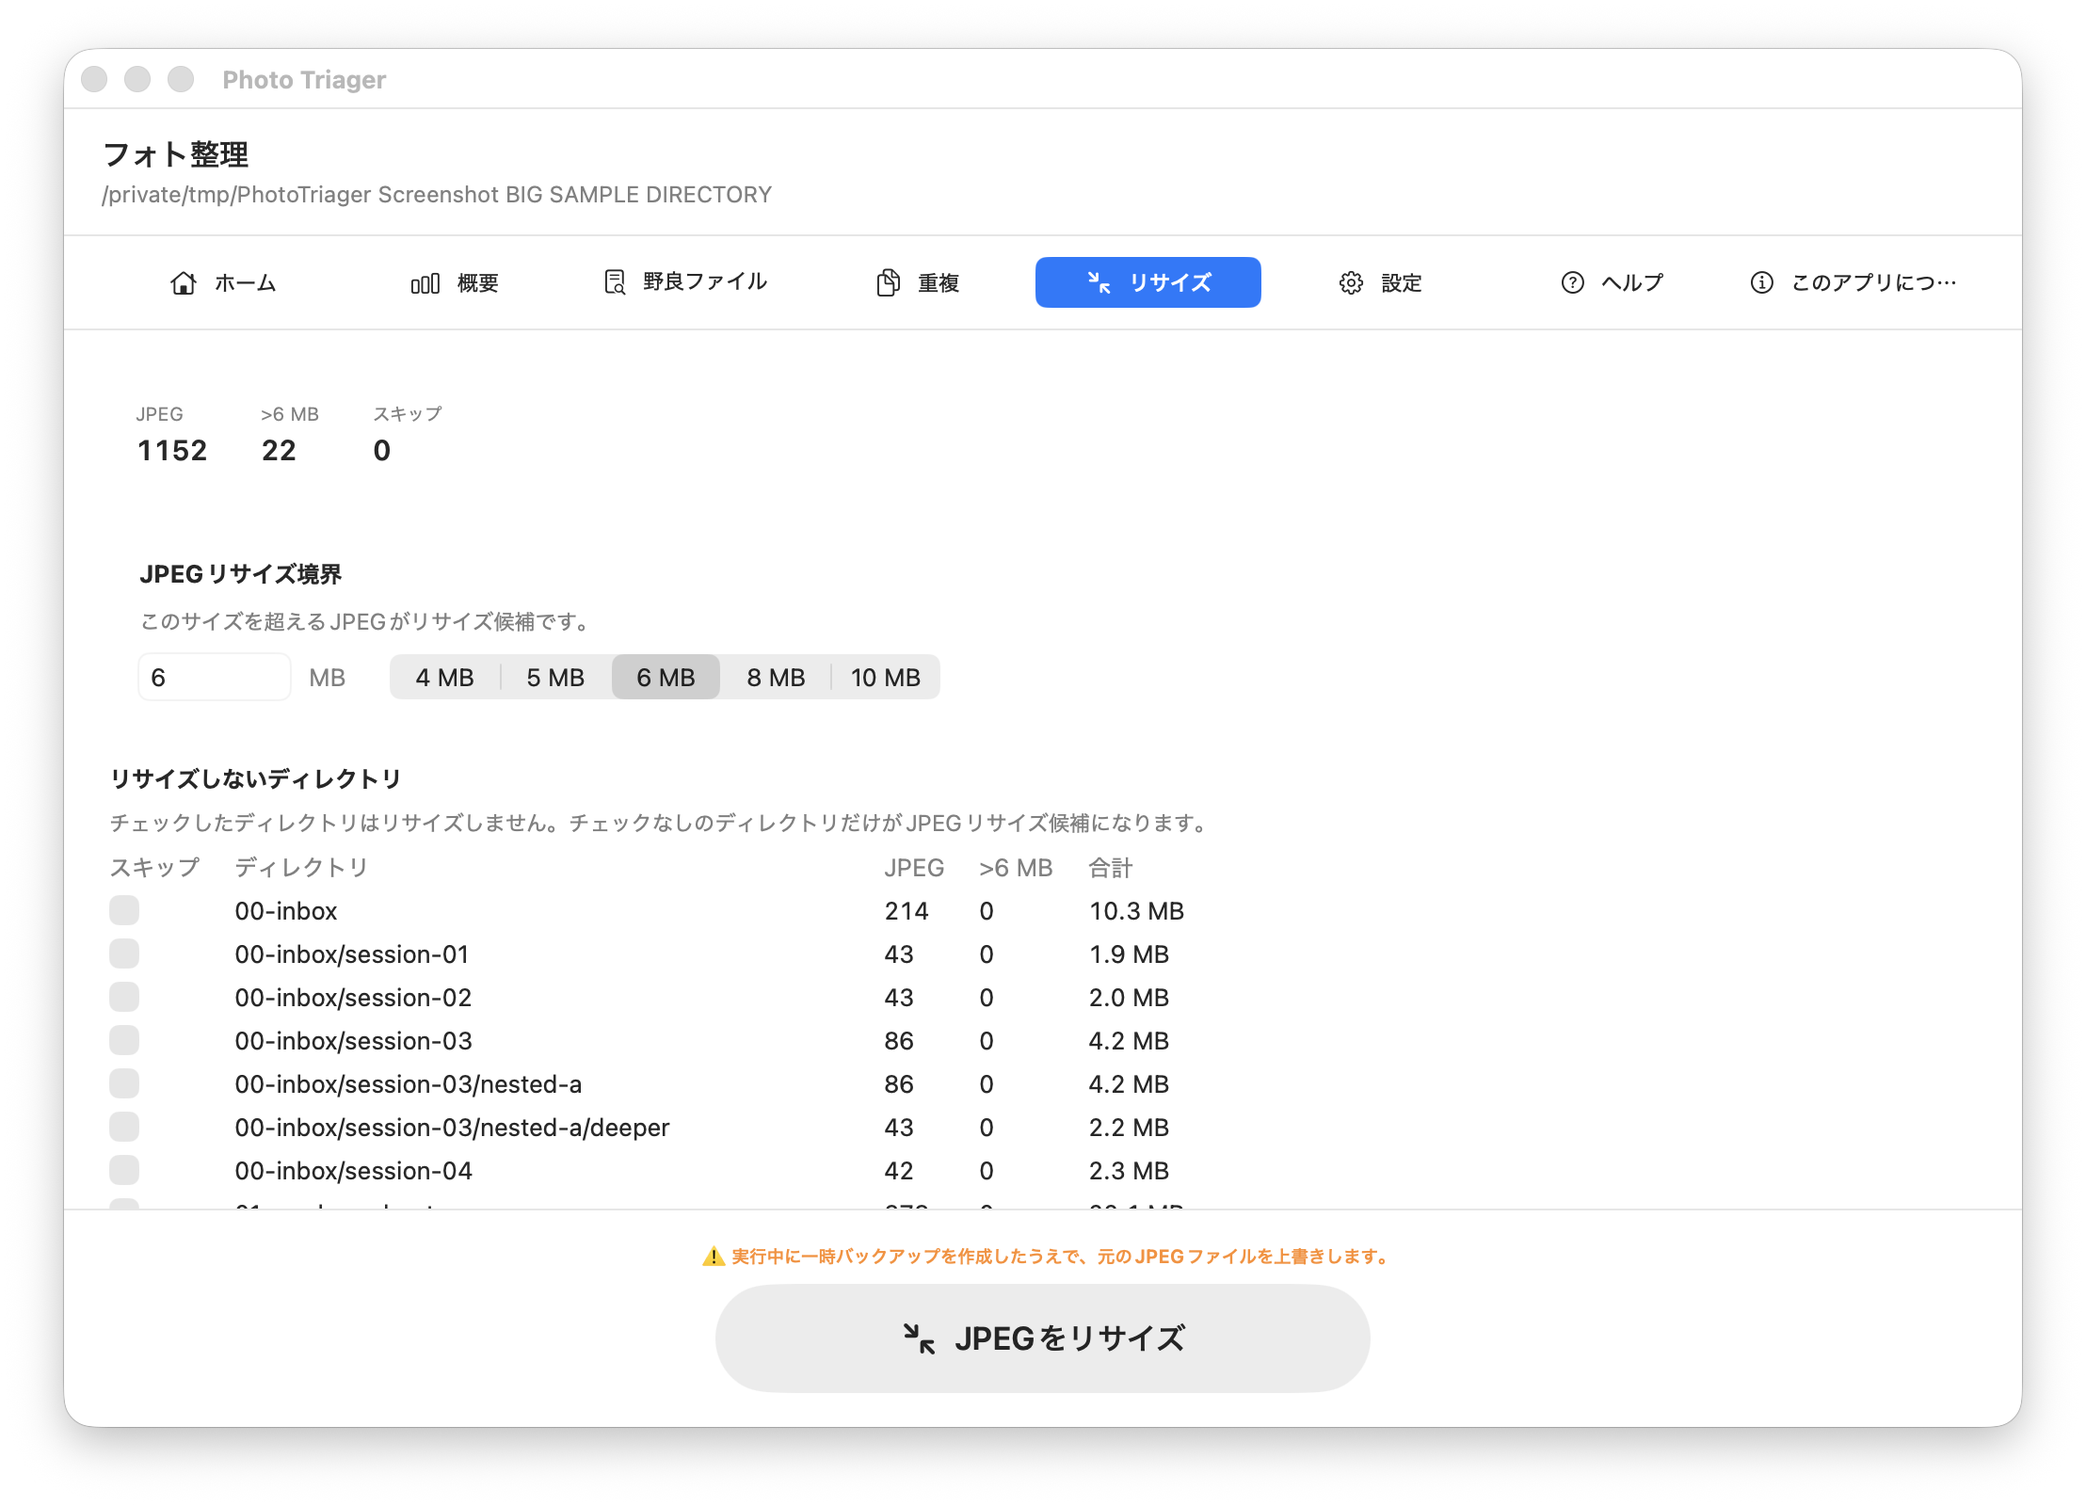
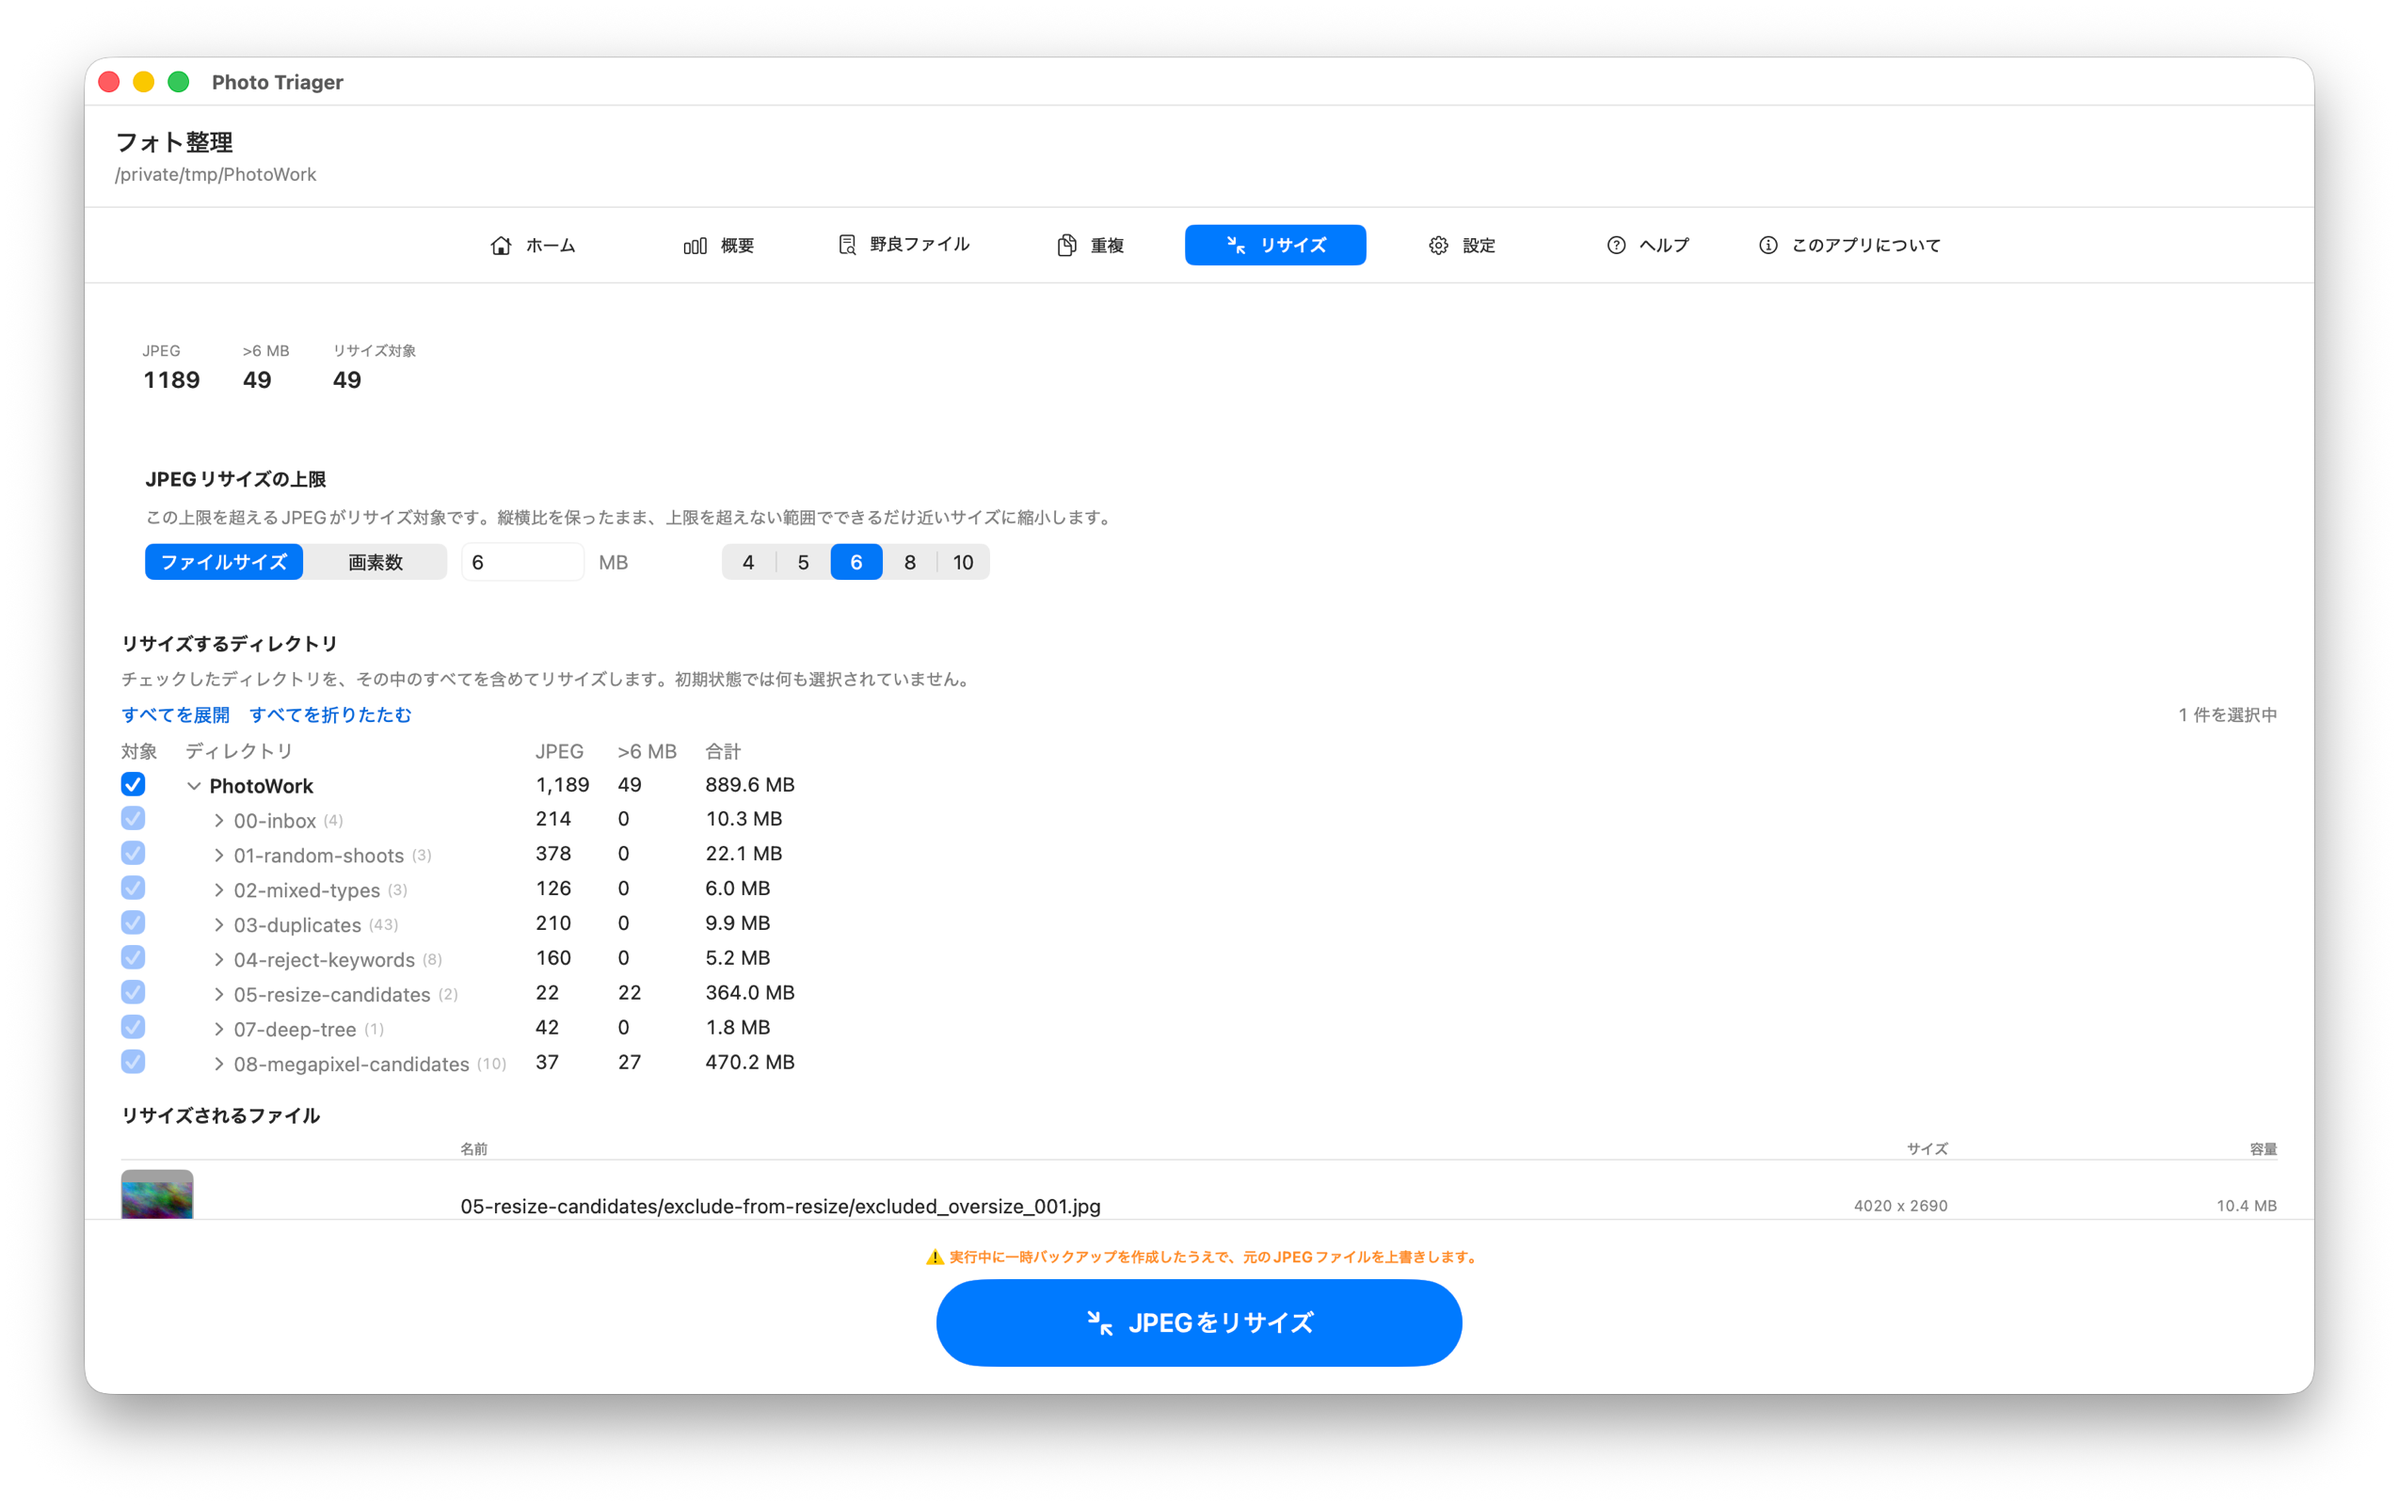
photo triager updates

diff --git a/docs/phototriager/ja/index.html b/docs/phototriager/ja/index.html
@@ -33,7 +33,7 @@
   </div>
 </div>
 
-<p>フォト整理は、整理前の写真フォルダを確認するためのMacアプリです。下位フォルダを含めてスキャンし、画像種類の集計、除外候補フォルダの分離、完全一致の重複検出、隠しファイルの退避、大きなJPG/JPEGのリサイズを、進捗と結果を見ながら実行できます。</p>
+<p>フォト整理は、整理前の写真フォルダを確認するためのMacアプリです。下位フォルダを含めてスキャンし、画像種類の集計、除外候補フォルダの分離、完全一致の重複検出、隠しファイルの退避、大きなJPG/JPEGをファイルサイズまたは画素数でリサイズすることを、進捗と結果を見ながら実行できます。</p>
 
 <p>写真編集アプリ、長期カタログ、Lightroomの代替ではありません。フォルダの中身を理解してから安全に整理するための、実用的な事前確認ツールです。</p>
 
@@ -73,7 +73,7 @@
   <li><b>Finderと件数が違う場合:</b> 設定を確認してください。フォト整理は、設定で選ばれた画像拡張子だけを集計します。</li>
   <li><b>除外候補フォルダが拾われない場合:</b> 「除外候補フォルダのキーワード」に該当する語を追加し、再スキャンしてください。</li>
   <li><b>ファイルを移動できない場合:</b> macOSの権限が必要な可能性があります。案内に従って退避フォルダの許可を行ってください。</li>
-  <li><b>JPEGをリサイズする前に:</b> 必ずバックアップを作成し、除外ディレクトリを確認してください。JPEGリサイズは元ファイルを上書きします。</li>
+  <li><b>JPEGをリサイズする前に:</b> 必ずバックアップを作成し、チェックしたディレクトリを確認してください。JPEGリサイズは元ファイルを上書きします。</li>
 </ul>
 
 <h2 id="manual" class="section-h2 section-anchor">マニュアル</h2>
@@ -88,8 +88,16 @@
     <figcaption>変更前に、カテゴリ合計、ファイル種類、除外候補合計、下位フォルダ、大きいJPEG候補を確認します。</figcaption>
   </figure>
   <figure>
-    <img src="../images/screenshots/ja-resize.png" alt="フォト整理のリサイズタブ。JPEGリサイズ境界とリサイズしないディレクトリを表示しています">
-    <figcaption>JPEGリサイズ境界と対象外ディレクトリを確認し、上書きの注意を読んでから実行します。</figcaption>
+    <img src="../images/screenshots/ja-stray.png" alt="フォト整理の野良ファイルタブ。フォルダ内で見つかった隠しファイルの一覧">
+    <figcaption>ドットで始まる隠しファイルは、どこに紛れていても一覧に表示され、削除ではなく退避フォルダへ移動します。</figcaption>
+  </figure>
+  <figure>
+    <img src="../images/screenshots/ja-resize.png" alt="フォト整理のリサイズタブ。上限をファイルサイズ（MB）で指定した状態">
+    <figcaption>ファイルサイズ（MB）で上限を指定し、リサイズするディレクトリにチェックを入れ、上書きの注意を読んでから実行します。</figcaption>
+  </figure>
+  <figure>
+    <img src="../images/screenshots/ja-resize-resolution.png" alt="フォト整理のリサイズタブ。上限を画素数（万画素）で指定した状態">
+    <figcaption>画素数（万画素）でも指定できます。ディレクトリにチェックを入れるとその中のすべてが対象になり、変更されるファイル数がその場で分かります。</figcaption>
   </figure>
 </div>
 
@@ -106,7 +114,9 @@
 <p>完全一致の重複ファイルを探します。各グループで残すファイルを選び、必要に応じてプレビューし、残りを退避フォルダへ移動します。</p>
 
 <h3>リサイズ</h3>
-<p>設定したサイズを超えるJPG/JPEGをリサイズします。パス順で処理し、変更したくないディレクトリは除外できます。リサイズ後も大きすぎる場合は、より小さい割合で再試行します。</p>
+<p>設定した上限を超えるJPG/JPEGをリサイズします。上限は<b>ファイルサイズ</b>（MB）でも、<b>画素数</b>（万画素）でも指定できます。たとえば1200万画素を指定すると、2400万画素のカメラ画像はおよそ半分の画素数になります。画素数でのリサイズは縦横比を保ち、指定値を超えない範囲でできるだけ近い大きさに収めるため、3:2の写真は3:2のまま、パノラマはパノラマのままです。</p>
+<p>選択するまで、何もリサイズされません。ディレクトリ一覧は最初は何もチェックされておらず、実行ボタンも無効です。フォルダにチェックを入れると、その中のすべてが対象になるため、フォルダ全体も、特定の撮影分だけも、1クリックで指定できます。処理はパス順で行い、完了後に変更したファイルの概要を表示します。</p>
+<p>書き出しは最高品質ではなく高品質で行います。カメラのJPEGはすでに圧縮されているため、最高品質で保存し直してもカメラが捨てたディテールは戻らず、ファイルが大きくなるだけです。</p>
 
 <div class="tip">💡 ARWなどのRAWファイルは集計に含められますが、フォト整理はRAWファイルをリサイズしません。</div>
 
@@ -116,7 +126,7 @@
   <li><b>カウント対象:</b> スキャン、集計、重複検索、概要に含める画像拡張子を選びます。</li>
   <li><b>除外候補フォルダのキーワード:</b> reject、rejected、ぼつ、ボツ、没などのフォルダを通常フォルダと分けて集計します。</li>
   <li><b>退避フォルダ:</b> 野良ファイルや重複整理されたファイルの移動先を選びます。</li>
-  <li><b>JPEGリサイズ境界:</b> どのサイズを超えたJPG/JPEGをリサイズ候補にするか設定します。</li>
+  <li><b>JPEGリサイズの上限:</b> ファイルサイズ（MB）または画素数（万画素）で、どこを超えたJPG/JPEGをリサイズ候補にするか設定します。</li>
 </ul>
 
 <h2 id="safety" class="section-h2 section-anchor">ファイル安全性の注意</h2>

diff --git a/docs/phototriager/en/index.html b/docs/phototriager/en/index.html
@@ -33,7 +33,7 @@
   </div>
 </div>
 
-<p>Photo Triager is a Mac app for reviewing messy photo folders before you start changing them. It scans nested directories, counts image types, separates reject folders, finds exact duplicates, moves stray hidden files to a holding folder, and resizes oversized JPG/JPEG files with visible progress and summaries.</p>
+<p>Photo Triager is a Mac app for reviewing messy photo folders before you start changing them. It scans nested directories, counts image types, separates reject folders, finds exact duplicates, moves stray hidden files to a holding folder, and resizes oversized JPG/JPEG files by file size or by resolution, with visible progress and summaries.</p>
 
 <p>It is not a photo editor, a catalog, or a Lightroom replacement. It is a practical preflight tool for the part of photo work where you need to understand what is in a folder before cleanup becomes risky.</p>
 
@@ -73,7 +73,7 @@
   <li><b>Counts look different from Finder?</b> Check Settings. Photo Triager only counts the image extensions selected there.</li>
   <li><b>Reject folders are missing?</b> Add the folder word to Reject Folder Keywords, then rescan.</li>
   <li><b>Files cannot be moved?</b> macOS may require folder permission. Use the permission button for the holding folder when prompted.</li>
-  <li><b>Before resizing JPEGs:</b> Make a backup and review excluded directories. JPEG resize overwrites originals.</li>
+  <li><b>Before resizing JPEGs:</b> Make a backup and review which directories you have ticked. JPEG resize overwrites originals.</li>
 </ul>
 
 <h2 id="manual" class="section-h2 section-anchor">Manual</h2>
@@ -81,15 +81,23 @@
 <div class="app-screenshots">
   <figure>
     <img src="../images/screenshots/en-home.png" alt="Photo Triager Home tab showing a scanned folder summary">
-    <figcaption>Start from one copied working folder, then change folders or rescan when files change.</figcaption>
+    <figcaption>Point Photo Triager at a copied working folder. It scans every nested subdirectory and reports what it found.</figcaption>
   </figure>
   <figure>
-    <img src="../images/screenshots/en-summary.png" alt="Photo Triager Summary tab showing category, file type, and directory totals">
+    <img src="../images/screenshots/en-summary.png" alt="Photo Triager Summary tab showing category, file type, and directory totals with a megapixel column">
     <figcaption>Review category totals, file types, reject totals, subdirectories, and oversized JPEG candidates before changing files.</figcaption>
   </figure>
   <figure>
-    <img src="../images/screenshots/en-resize.png" alt="Photo Triager Resize tab showing JPEG size boundary and directories not resized">
-    <figcaption>Set the JPEG resize boundary, review directories that should not be resized, and confirm the overwrite warning before running.</figcaption>
+    <img src="../images/screenshots/en-stray.png" alt="Photo Triager Stray Files tab listing hidden dot-prefixed files found across the folder">
+    <figcaption>Hidden dot-prefixed files are listed wherever they hide, and move to a holding folder rather than being deleted.</figcaption>
+  </figure>
+  <figure>
+    <img src="../images/screenshots/en-resize.png" alt="Photo Triager Resize tab with the boundary set to a file size in megabytes">
+    <figcaption>Set a file size boundary in MB, tick the directories to resize, and confirm the overwrite warning before running.</figcaption>
+  </figure>
+  <figure>
+    <img src="../images/screenshots/en-resize-resolution.png" alt="Photo Triager Resize tab with the boundary set to a resolution in megapixels">
+    <figcaption>Or set the boundary in megapixels. Ticking a directory covers everything nested inside it, and the count shows exactly how many files will change.</figcaption>
   </figure>
 </div>
 
@@ -106,7 +114,9 @@
 <p>Find exact byte-for-byte duplicates. Choose one keeper in each duplicate group, preview the image where possible, then dedupe the extra copies to the holding folder.</p>
 
 <h3>Resize</h3>
-<p>Resize JPG/JPEG files over the configured size boundary. Files are processed in path order. You can exclude directories that must remain untouched. If a resized file is still too large, Photo Triager tries again at a smaller percentage.</p>
+<p>Resize JPG/JPEG files that exceed a boundary you set. The boundary can be a <b>file size</b> in MB, or a <b>resolution</b> in megapixels &mdash; for example 12 MP, which brings a 24 MP camera file down to roughly half its pixel count. Resolution resizing keeps the aspect ratio and lands as close under the target as the shape of the image allows, so a 3:2 photo stays 3:2 and a panorama stays a panorama.</p>
+<p>Nothing is resized until you choose it. The directory list starts with nothing ticked and the run button disabled; tick a folder and everything nested inside it is included, so the whole tree is one click and a single shoot is another. Files are processed in path order, and the run ends with a summary of every file that changed.</p>
+<p>Rewritten files are encoded at high quality rather than maximum. A camera JPEG has already been compressed, so re-saving it at maximum quality inflates the file without recovering any detail that was lost when the camera wrote it.</p>
 
 <div class="tip">💡 RAW files such as ARW can be included in counts, but Photo Triager does not resize RAW files.</div>
 
@@ -116,7 +126,7 @@
   <li><b>Included file types:</b> choose which image extensions appear in scans, counts, duplicate detection, and summaries.</li>
   <li><b>Reject folder keywords:</b> count folders such as reject, rejected, ぼつ, ボツ, and 没 separately from normal folders.</li>
   <li><b>Holding folder:</b> choose where stray files and deduped files are moved.</li>
-  <li><b>JPEG resize boundary:</b> set the size above which JPG/JPEG files become resize candidates.</li>
+  <li><b>JPEG resize boundary:</b> set a file size in MB or a resolution in megapixels, above which JPG/JPEG files become resize candidates.</li>
 </ul>
 
 <h2 id="safety" class="section-h2 section-anchor">File Safety Notice</h2>
